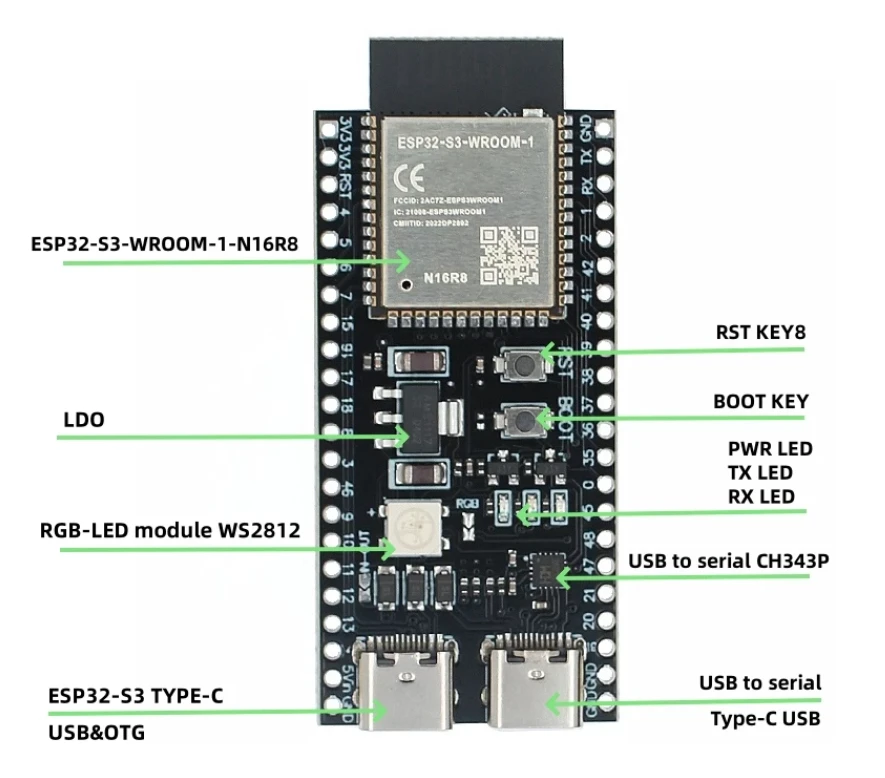
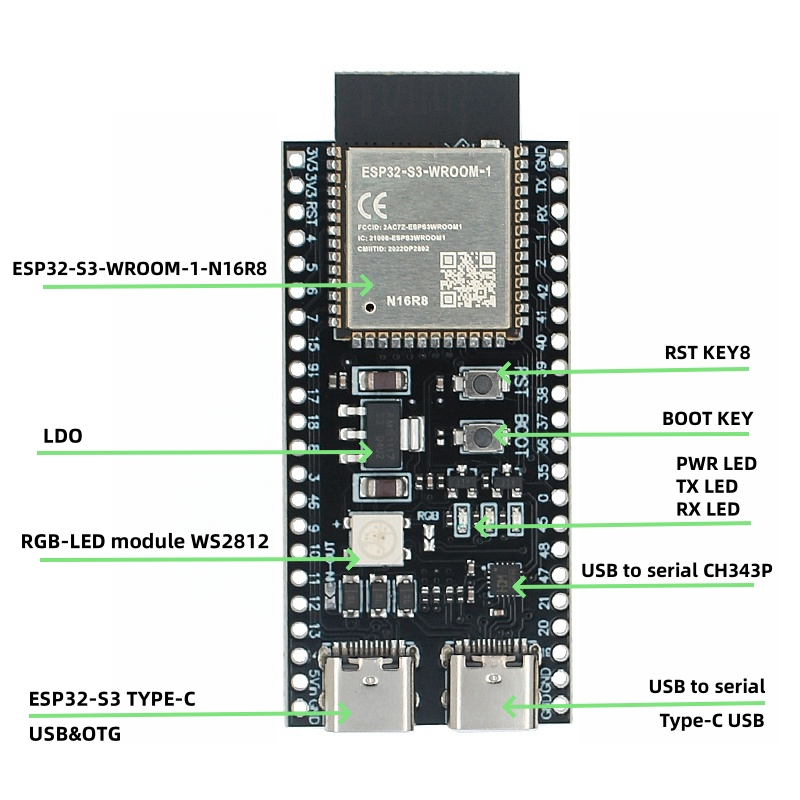
feat: v4.7 - imagens hardware atualizadas (pinout, componentes, dimensoes)
- Adiciona 01-pinout.jpg: diagrama colorido de todos os GPIOs do N16R8
- Atualiza 02-diagrama-componentes.jpg: foto com legendas (LDO, RST, BOOT, RGB LED, CH343P, USB OTG)
- Atualiza 03-dimensoes-n16r8.jpg: diagrama PCB + foto real da placa N16R8
- Remove 01-produto-shopee.jpg (imagem de loja irrelevante)
- README: pinout como imagem principal, tabela componentes/dimensoes
- README: corrige versao para v4.6

Changed region(s): [[0.0, 0.0308, 0.9688, 0.9563]]

diff --git a/README.md b/README.md
@@ -2,7 +2,7 @@
 
 > Plataforma portátil de avaliação de segurança WiFi e Bluetooth, rodando diretamente no ESP32 com interface web SPA acessível pelo celular ou notebook. Sem software adicional, sem sistema operacional especial - basta conectar e usar.
 
-**Versão atual: v4.3** | [Instalação](#instalação) | [Como Usar](#como-usar) | [Ataques](#módulos-de-ataque) | [Arquitetura](#arquitetura-técnica)
+**Versão atual: v4.6** | [Instalação](#instalação) | [Como Usar](#como-usar) | [Ataques](#módulos-de-ataque) | [Arquitetura](#arquitetura-técnica)
 
 ---
 
@@ -149,7 +149,11 @@ O **ESP32-S3 WROOM-1 N16R8** (disponivel na Shopee por R$13-27) e o hardware ide
   LEDs: PWR, TX, RX
 ```
 
-![Diagrama ESP32-S3 N16R8](docs/hardware/esp32-s3-n16r8/02-diagrama-componentes.jpg)
+![Pinout ESP32-S3 N16R8](docs/hardware/esp32-s3-n16r8/01-pinout.jpg)
+
+| Componentes | Dimensoes |
+|---|---|
+| ![Componentes](docs/hardware/esp32-s3-n16r8/02-diagrama-componentes.jpg) | ![Dimensoes](docs/hardware/esp32-s3-n16r8/03-dimensoes-n16r8.jpg) |
 
 ### Flashando no ESP32-S3 N16R8
 
